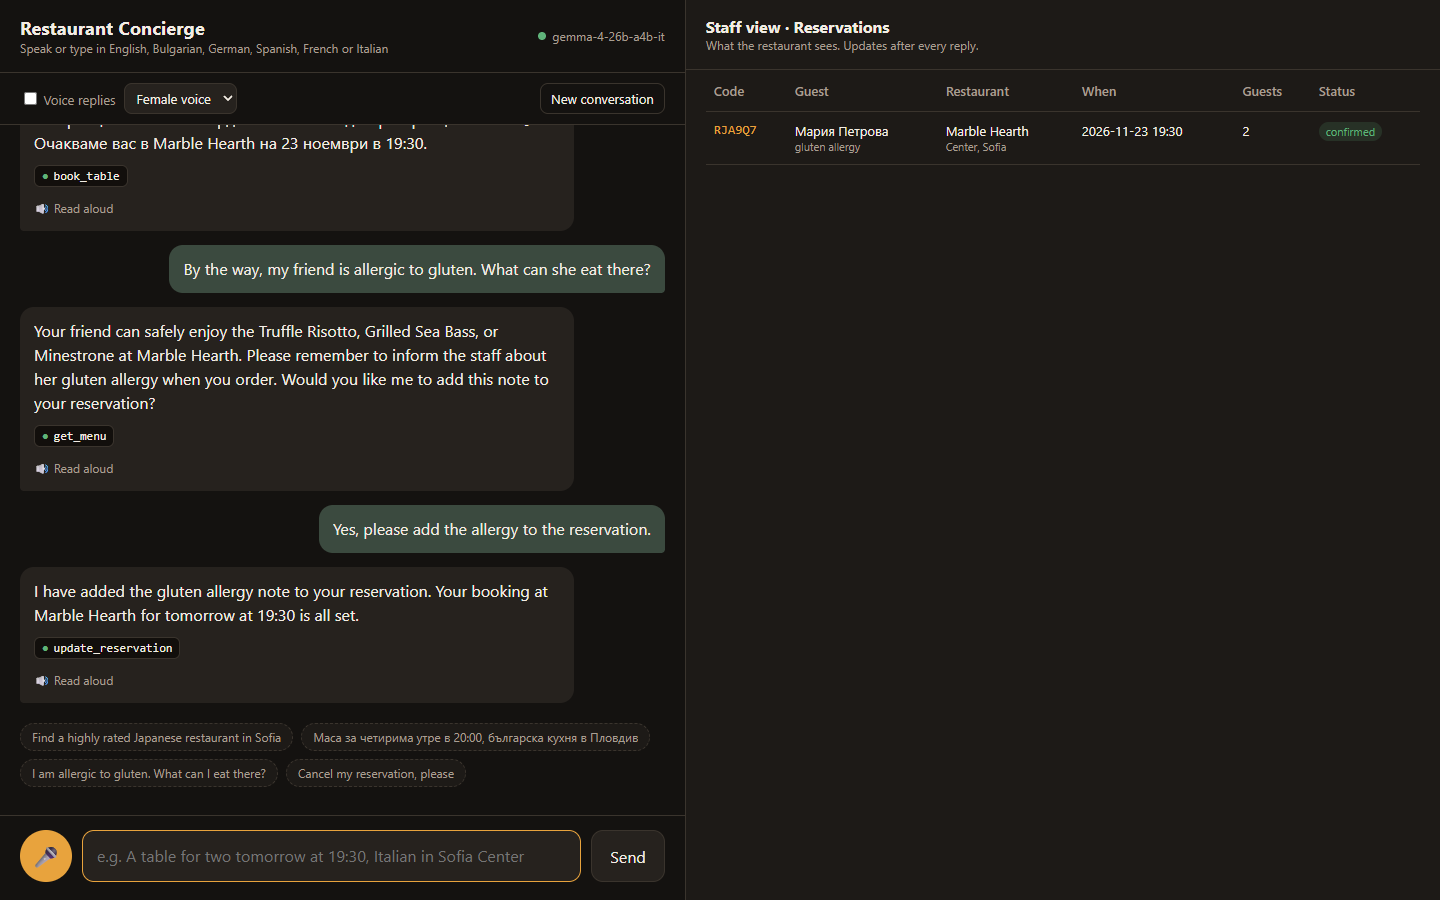
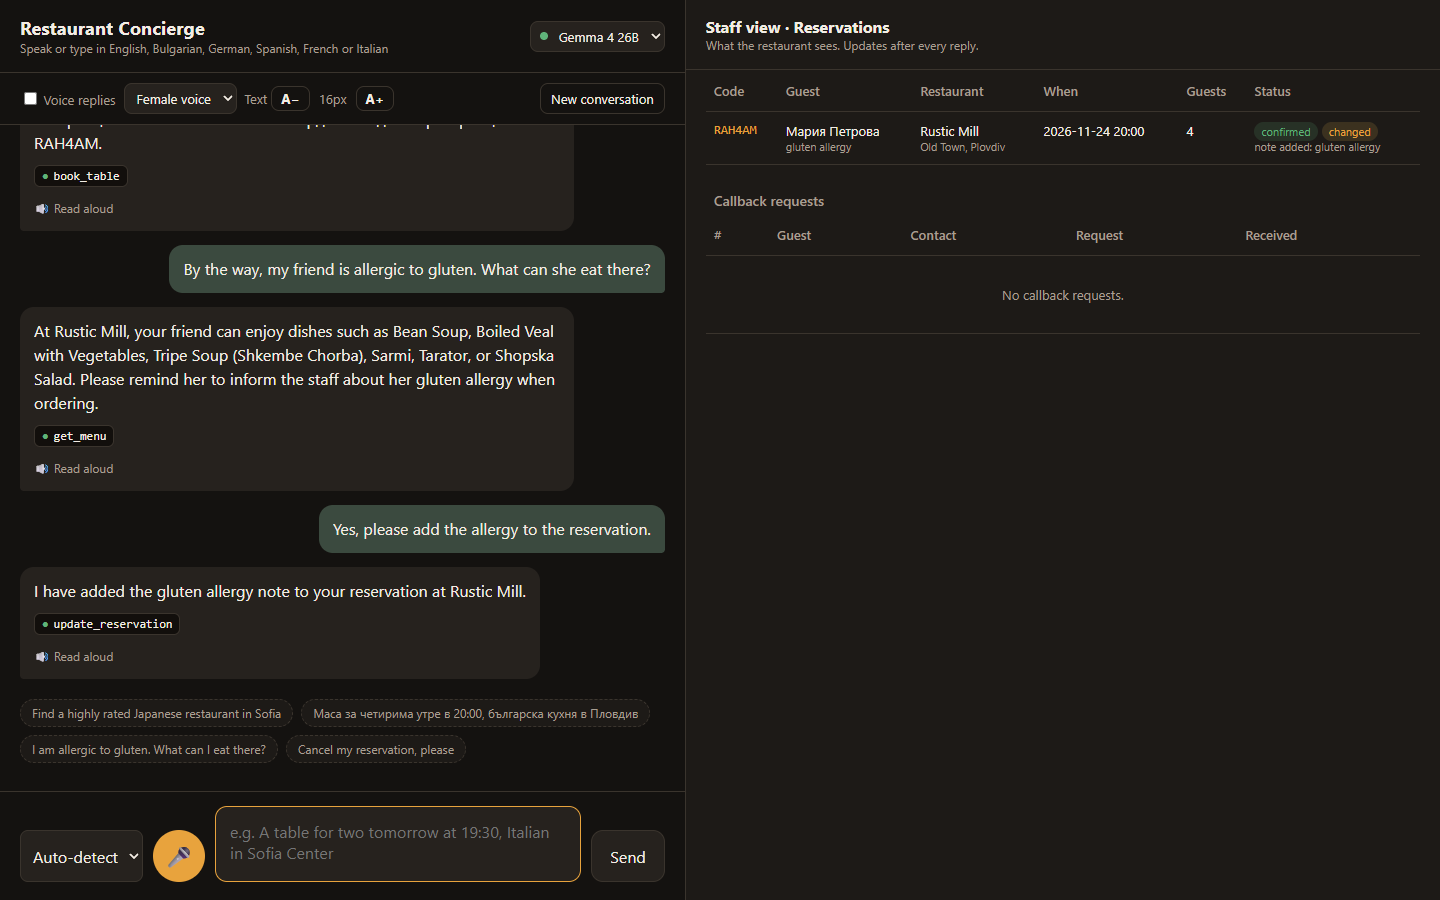
Docs: new screenshots, updated results and diagram, MIT license

diff --git a/README.md b/README.md
@@ -1,14 +1,23 @@
 # Multilingual Voice Restaurant Concierge
 
-![Python 3.12](https://img.shields.io/badge/python-3.12-blue)
+[![tests](https://github.com/dianj/voice-restaurant-agent/actions/workflows/tests.yml/badge.svg)](https://github.com/dianj/voice-restaurant-agent/actions/workflows/tests.yml) ![Python 3.12](https://img.shields.io/badge/python-3.12-blue) ![License: MIT](https://img.shields.io/badge/license-MIT-green)
 
 A voice and text AI concierge for a restaurant group. Guests speak or type in English, Bulgarian, German, Spanish, French or Italian. The agent finds restaurants, answers menu and allergen questions, and books, changes or cancels tables. A staff view shows reservations as they are made.
 
 The LLM runs locally in LM Studio and works only through validated tools: it cannot invent a free table or a dish, because availability, menus and bookings come from SQLite through rules written in Python.
 
-![A booking in Bulgarian, then an allergen question in English; the agent adds the allergy to the reservation, which appears in the staff view](docs/screenshots/02-allergens-en.png)
+<table>
+<tr>
+<td width="50%"><img src="docs/screenshots/01-booking-bg.png" alt="A booking in Bulgarian: search, availability check, booking after the guest confirms; the reservation appears in the staff view"></td>
+<td width="50%"><img src="docs/screenshots/02-allergens-en.png" alt="The same guest switches to English, asks about gluten-free dishes, and the allergy is added to the reservation"></td>
+</tr>
+<tr>
+<td><b>Booking in Bulgarian:</b> search, availability check, and a booking only after the guest says yes. The staff view shows it at once.</td>
+<td><b>Allergens in English:</b> the guest switches language mid-conversation; the agent lists only gluten-free dishes and adds the allergy to the booking, marked as changed for the staff.</td>
+</tr>
+</table>
 
-<sub>Screenshot from a real session with Gemma 4 26B in LM Studio: a booking in Bulgarian, an allergen question in English, and the allergy added to the reservation.</sub>
+<sub>Screenshots from a real session with Gemma 4 26B in LM Studio; the tool calls under each reply are the ones the model made.</sub>
 
 ![Sequence diagram of one chat turn](voice-restaurant-agent_diagram.svg)
 
@@ -59,8 +68,8 @@ python -m pytest
 
 | Model (local, LM Studio) | Passed | Median time per turn |
 |---|---|---|
-| Gemma 4 26B A4B (default) | **46/46** (23 cases × 2 runs) | 6.0 s |
-| Qwen 3.8 27B | **45/46** (23 cases × 2 runs; the failure is fixed, see below) | 23.7 s |
+| Gemma 4 26B A4B (default) | **56/56** (28 cases × 2 runs) | 6.6 s |
+| Qwen 3.8 27B | **56/56** (28 cases × 2 runs) | 30.5 s |
 
 Writing the evals found real problems, now fixed: a guest naming a restaurant left the agent without its ID (search by name added); Gemma dropped the dash when reading back a code like `R-34LST` (codes have no dash now); late at night Gemma told guests "I confirm your reservation" before booking anything (a prompt rule, checked by an eval that failed 2 of 4 runs before the fix and 0 of 4 after); Qwen sometimes translated restaurant names ("Стар Мил" for "Old Mill"), which a guest could not find; and after a longer prompt Gemma booked straight away when a guest said "Book a table…" (2 of 2 runs), so the confirmation rule moved into code: `book_table` only runs for details that `check_availability` offered in an earlier turn. The Qwen run also showed a privacy gap: looking up a code returned the guest's name, and Qwen said "booked under Maria" to whoever had the code; the lookup no longer returns names. Live tests also showed the agent only offering a colleague when a guest wanted a mistakenly cancelled booking back (now it offers the same table under a new code; 0 of 4 → 6 of 6), and asking "which restaurant?" right after the guest had asked for a restaurant's menu; an eval reproduced it when the conversation also held an earlier reservation (4 of 4 runs) and a prompt rule fixed it (6 of 6). An earlier live test also caught 19:30 being read back as "half past nine". Per-case results: [`evals/results/latest.md`](evals/results/latest.md).
 
@@ -82,3 +91,7 @@ Writing the evals found real problems, now fixed: a guest naming a restaurant le
 A local portfolio demo: no authentication on the staff view, sessions in memory, and text-to-speech sends reply text to an online service. A public deployment would need HTTPS, authentication, rate limits and persistent storage.
 
 Architecture, data model, booking rules and gotchas are documented in [docs/ARCHITECTURE.md](docs/ARCHITECTURE.md).
+
+## License
+
+[MIT](LICENSE)
